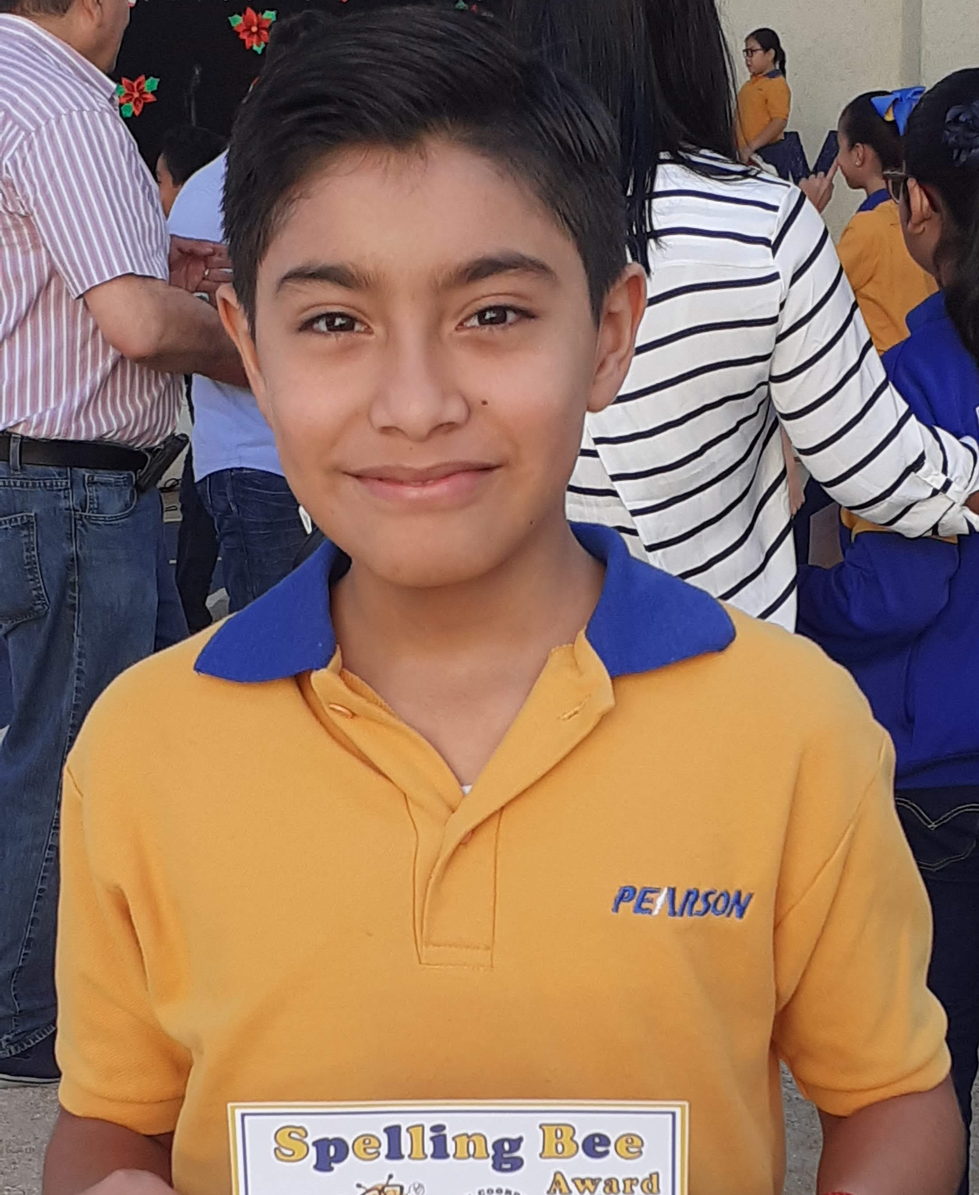
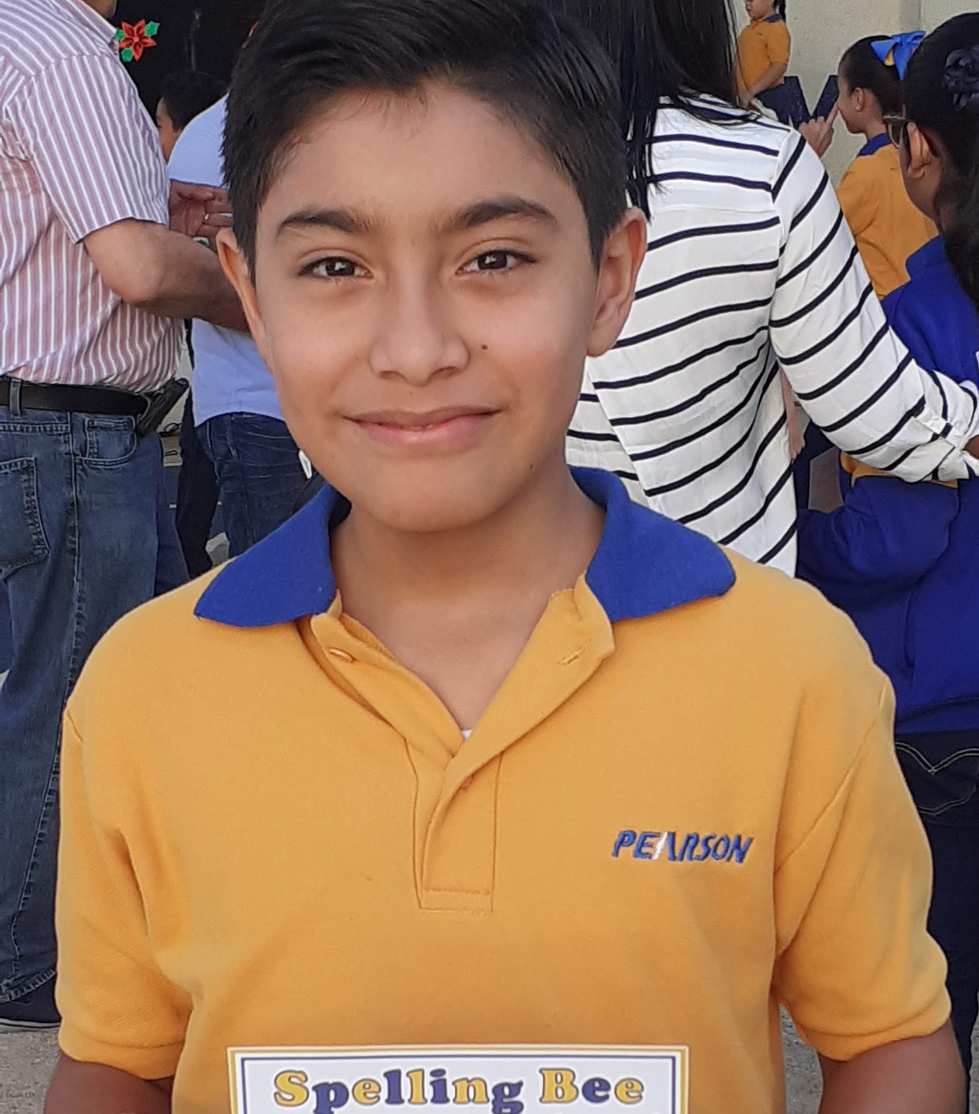
adaptar resolucion img

diff --git a/paginas/logros.html b/paginas/logros.html
@@ -52,7 +52,7 @@
                 </div>
 
                 <div class="seccion__articulo" data-aos="fade-up">
-                    <img class="img__articulo" src="../recursos/spellingBee-2019.jpg">
+                    <img class="img__articulo--mod" src="../recursos/spellingBee-2019.jpg">
                     <h3 class="titulo__articulo">
                         Concurso de Spelling Bee
                     </h3>
@@ -96,7 +96,7 @@
             </h2>
             <div class="articulos__tecnologia">
                 <div class="seccion__articulo" data-aos="fade-up">
-                    <img class="img__articulo" src="../recursos/ionRgradArduino-2019.jpg">
+                    <img class="img__articulo--mod" src="../recursos/ionRgradArduino-2019.jpg">
                     <h3 class="titulo__articulo">
                         Graduación de Arduino
                     </h3>

diff --git a/css/estilos.css b/css/estilos.css
@@ -181,6 +181,12 @@ p{
     padding-top: 5px;
 }
 
+.img__articulo--mod{
+    width: fit-content;
+    height: 50%;
+    padding-top: 5px;
+}
+
 /* pagina de contacto */
 form{
     width: 550px;
